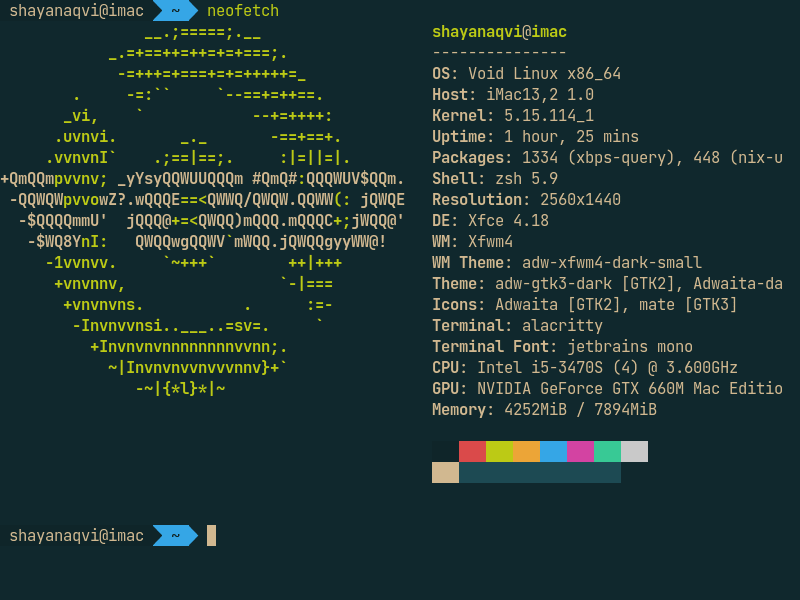
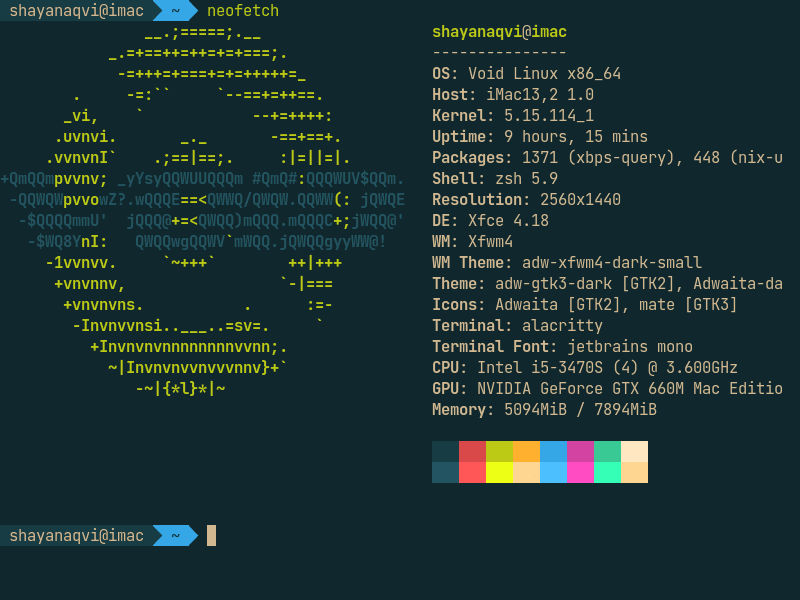
Updated article

diff --git a/articles/creatingacolourscheme.html b/articles/creatingacolourscheme.html
@@ -48,14 +48,14 @@
           <li>Foreground/background:</li>
           <ul>
             <li>foreground: ffe8c1</li>
-            <li>background: 10282d</li>
+            <li>background: d1b890</li>
           </ul>
           <li>Regular colours:</li>
           <ul>
-            <li>black: 1b434b</li>
+            <li>black: 183c44</li>
             <li>red: da4949</li>
             <li>green: bcca15</li>
-            <li>yellow: ffc361</li>
+            <li>yellow: ffb02e</li>
             <li>blue: 35a6e6</li>
             <li>magenta: d343a2</li>
             <li>cyan: 38c995</li>
@@ -63,7 +63,7 @@
           </ul>
           <li>Bright colours:
             <ul>
-              <li>black: 007f99</li>
+              <li>black: ff38c1</li>
               <li>red: ff5757</li>
               <li>green: ecff14</li>
               <li>yellow: ffd694</li>
